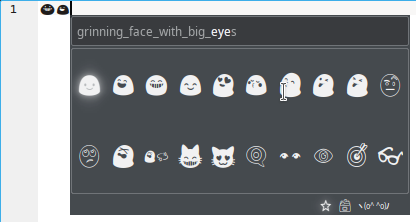
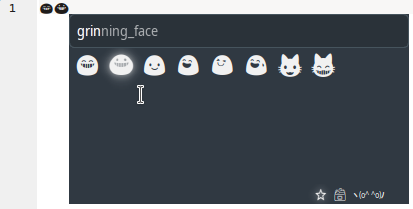
update screenshots

Changed region(s): [[0.0, 0.0, 1.0, 0.9761]]

diff --git a/README.md b/README.md
@@ -8,7 +8,7 @@ This project took heavy inspiration from the "predecessor" [https://github.com/G
 
 ## Screenshots 😮
 
-*Wayland support (Arch Linux with Sway (Wayland) and Fcitx5):*
+*Recently used emoji (EndeavourOS with KDE (XServer) and Fcitx5):*
 
 ![docs/screenshot2.png](docs/screenshot2.png)
 
